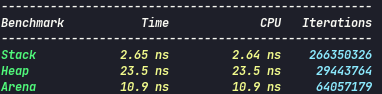
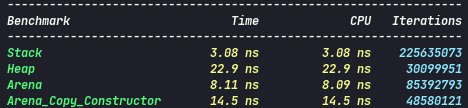
[UPD] image diagrama, benchmark img

diff --git a/README.md b/README.md
@@ -51,3 +51,7 @@ obs: when you make a request for more space the previously created arena will be
 void dell(); // will put the pointer to the beginning of the arena
 unsigned int afree(); // will bring the value of available space in the arena
 ```
+
+# Diagrama
+
+![arenaDigrama](assets/arena_image_1.jpg)
